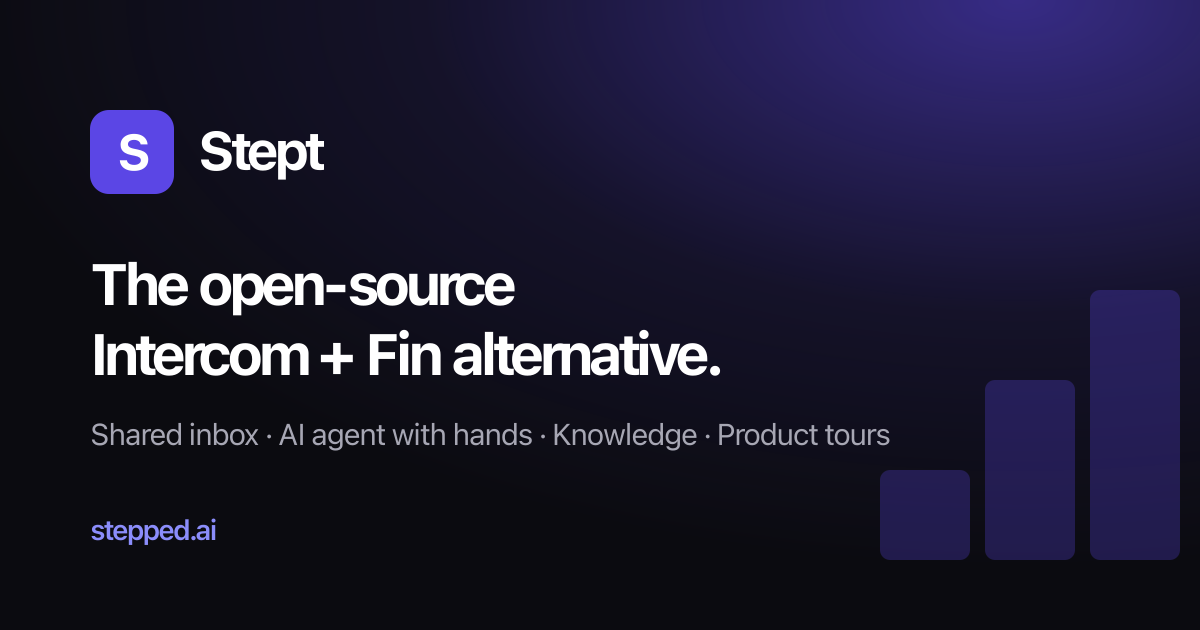
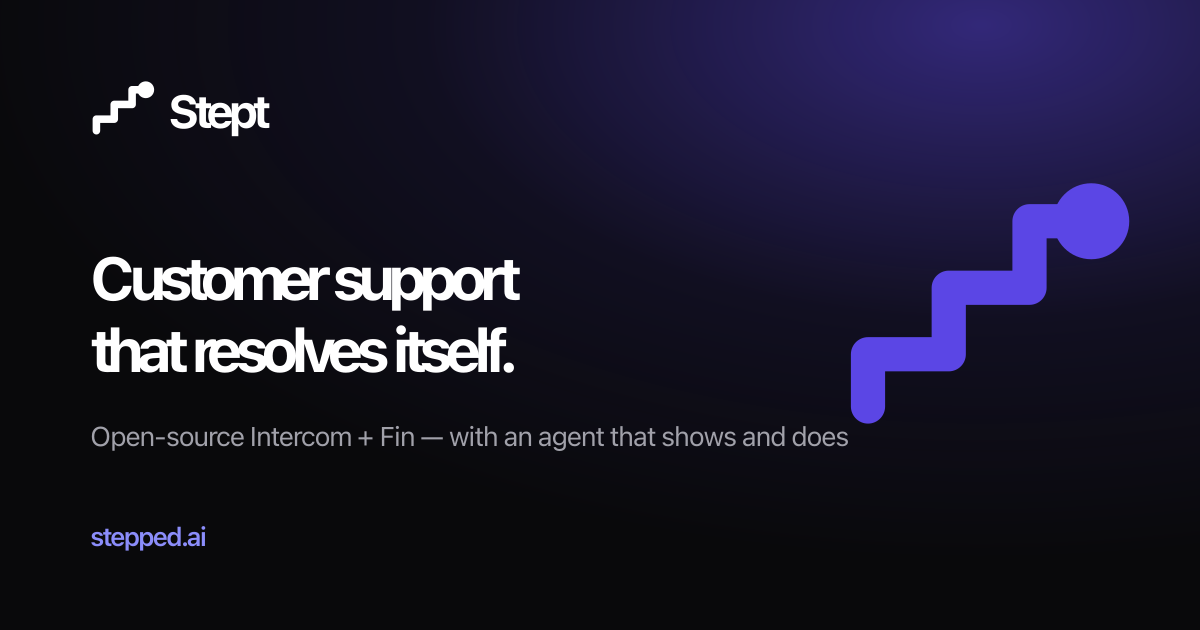
design: one system across docs, widget and the app's tokens
The landing set the direction; everything else was still on the old palette.

Docs: Starlight retinted to the same zinc + indigo, Instrument Sans and
JetBrains Mono, the real mark in the header, and a header that links back to
the site and the app with the same solid CTA.

Widget: zinc neutrals and the brand indigo (also the new default accent for
fresh widget inboxes, and in the checklist/survey/tour players). The system
font stack stays — this bundle loads on customer pages and a webfont would
cost more than the whole widget.

App tokens: --primary is now near-black so primary actions match the
landing's CTA, with the indigo moved to a --brand token for the mark, links,
AI moments and data-viz. Instrument Sans + JetBrains Mono applied globally.
The component sweep onto these tokens lands next.

Brand rasters (OG card, favicons, touch icon) regenerated from the mark
instead of the old letter tile.

Claude-Session: https://claude.ai/code/session_01MDeqYty2o8QCRkEacCTPBL

diff --git a/widget/src/tour-player.ts b/widget/src/tour-player.ts
@@ -328,7 +328,7 @@ const CSS = `
 .stept-tour-root.stept-veil{pointer-events:auto;background:rgba(15,23,42,.55)}
 .stept-tour-hole{position:fixed;z-index:2147483000;border-radius:8px;
   box-shadow:0 0 0 9999px rgba(15,23,42,.55);transition:all .18s ease;pointer-events:none;
-  outline:2px solid var(--stept-accent,#6366f1);outline-offset:2px}
+  outline:2px solid var(--stept-accent,#5b46e5);outline-offset:2px}
 .stept-tour-hole.stept-nodim{box-shadow:none}
 .stept-tour-hole[hidden]{display:none}
 .stept-tour-tip{position:fixed;z-index:2147483001;max-width:340px;width:calc(100vw - 32px);
@@ -336,7 +336,7 @@ const CSS = `
   padding:16px 16px 12px;font:14px/1.5 -apple-system,BlinkMacSystemFont,"Segoe UI",Roboto,Helvetica,Arial,sans-serif;
   box-sizing:border-box}
 .stept-tour-tip[hidden]{display:none}
-.stept-tour-tip:focus{outline:2px solid var(--stept-accent,#6366f1);outline-offset:2px}
+.stept-tour-tip:focus{outline:2px solid var(--stept-accent,#5b46e5);outline-offset:2px}
 .stept-tour-tip.stept-centered{top:50%;left:50%;transform:translate(-50%,-50%);max-width:420px}
 .stept-tour-tip h4{margin:0 0 6px;font-size:15px;font-weight:600}
 .stept-tour-tip p{margin:0 0 8px;color:#334155}
@@ -355,18 +355,18 @@ const CSS = `
 .stept-tour-hint{font-size:12px;color:#64748b;margin:0}
 .stept-tour-actions{display:flex;gap:8px}
 .stept-tour-bar{height:3px;border-radius:2px;background:rgba(100,116,139,.22);margin:0 0 10px;overflow:hidden}
-.stept-tour-bar i{display:block;height:100%;background:var(--stept-accent,#6366f1);transition:width .2s ease}
+.stept-tour-bar i{display:block;height:100%;background:var(--stept-accent,#5b46e5);transition:width .2s ease}
 .stept-tour-btn{border:0;border-radius:8px;padding:7px 14px;font-size:13px;font-weight:600;cursor:pointer;
   font-family:inherit}
-.stept-tour-btn.primary{background:var(--stept-accent,#6366f1);color:#fff}
+.stept-tour-btn.primary{background:var(--stept-accent,#5b46e5);color:#fff}
 .stept-tour-btn.ghost{background:transparent;color:#475569}
 .stept-tour-close{position:absolute;top:8px;right:8px;border:0;background:transparent;
   font-size:16px;line-height:1;cursor:pointer;color:#94a3b8;padding:4px}
 .stept-tour-badge{display:inline-block;margin:0 0 6px;padding:1px 7px;border-radius:99px;font-size:10px;
-  font-weight:700;letter-spacing:.04em;text-transform:uppercase;background:var(--stept-accent,#6366f1);color:#fff}
+  font-weight:700;letter-spacing:.04em;text-transform:uppercase;background:var(--stept-accent,#5b46e5);color:#fff}
 .stept-tour-banner{position:fixed;left:0;right:0;z-index:2147483001;pointer-events:auto;
   display:flex;align-items:center;gap:12px;padding:12px 16px;box-sizing:border-box;
-  background:var(--stept-banner-bg,var(--stept-accent,#6366f1));color:var(--stept-banner-fg,#fff);
+  background:var(--stept-banner-bg,var(--stept-accent,#5b46e5));color:var(--stept-banner-fg,#fff);
   font:14px/1.4 -apple-system,BlinkMacSystemFont,"Segoe UI",Roboto,Helvetica,Arial,sans-serif;
   box-shadow:0 6px 24px rgba(15,23,42,.22)}
 .stept-tour-banner[hidden]{display:none}
@@ -396,7 +396,7 @@ const CSS = `
   border:1px solid currentColor;opacity:.85}
 .stept-tour-banner .stept-tour-close{position:static;color:inherit;opacity:.85}
 .stept-tour-beacon{position:fixed;z-index:2147483001;width:18px;height:18px;border-radius:50%;
-  background:var(--stept-accent,#6366f1);border:0;padding:0;cursor:pointer;pointer-events:auto;
+  background:var(--stept-accent,#5b46e5);border:0;padding:0;cursor:pointer;pointer-events:auto;
   box-shadow:0 0 0 4px rgba(99,102,241,.35);animation:stept-tour-pulse 1.8s ease-out infinite}
 .stept-tour-beacon[hidden]{display:none}
 @keyframes stept-tour-pulse{
@@ -404,7 +404,7 @@ const CSS = `
   70%{box-shadow:0 0 0 14px rgba(99,102,241,0)}
   100%{box-shadow:0 0 0 0 rgba(99,102,241,0)}
 }
-.stept-tour-acting{outline:3px solid var(--stept-accent,#6366f1) !important;outline-offset:2px;
+.stept-tour-acting{outline:3px solid var(--stept-accent,#5b46e5) !important;outline-offset:2px;
   animation:stept-tour-pulse .6s ease-out 1}
 @media (prefers-color-scheme:dark){
   .stept-tour-tip{background:#1e293b;color:#f1f5f9}
@@ -453,7 +453,7 @@ export class TourPlayer {
   constructor(opts: TourPlayerOptions = {}) {
     this.doc = opts.doc ?? document
     this.win = opts.win ?? (this.doc.defaultView as Window & typeof globalThis) ?? window
-    this.accent = opts.accent ?? '#6366f1'
+    this.accent = opts.accent ?? '#5b46e5'
     this.onEvent = opts.onEvent ?? (() => {})
     this.progressKey = opts.progressKey ?? 'stept:tour-progress'
     this.apiBase = opts.apiBase ?? ''

diff --git a/widget/src/survey-widget.ts b/widget/src/survey-widget.ts
@@ -80,33 +80,33 @@ const CSS = `
 .stept-sv-card[hidden]{display:none}
 .stept-sv-card.stept-sv-slideout{right:20px;bottom:92px}
 .stept-sv-card.stept-sv-modal{top:50%;left:50%;transform:translate(-50%,-50%);width:400px}
-.stept-sv-card:focus{outline:2px solid var(--stept-accent,#6366f1);outline-offset:2px}
+.stept-sv-card:focus{outline:2px solid var(--stept-accent,#5b46e5);outline-offset:2px}
 .stept-sv-close{position:absolute;top:8px;right:8px;border:0;background:transparent;color:#94a3b8;
   font-size:16px;line-height:1;cursor:pointer;padding:4px}
 .stept-sv-q{margin:0 0 12px;font-size:15px;font-weight:600;padding-right:16px}
 .stept-sv-nps{display:flex;flex-wrap:wrap;gap:4px;margin:0 0 8px}
 .stept-sv-nps button{flex:1 0 auto;min-width:26px;border:1px solid rgba(100,116,139,.35);background:transparent;
   border-radius:6px;padding:6px 0;font:600 12px/1 inherit;color:inherit;cursor:pointer}
-.stept-sv-nps button[aria-pressed="true"]{background:var(--stept-accent,#6366f1);color:#fff;
-  border-color:var(--stept-accent,#6366f1)}
+.stept-sv-nps button[aria-pressed="true"]{background:var(--stept-accent,#5b46e5);color:#fff;
+  border-color:var(--stept-accent,#5b46e5)}
 .stept-sv-scale{display:flex;justify-content:space-between;font-size:11px;color:#64748b;margin:0 0 12px}
 .stept-sv-stars{display:flex;gap:6px;margin:0 0 12px}
 .stept-sv-stars button{border:0;background:transparent;font-size:26px;line-height:1;cursor:pointer;padding:0;
   color:rgba(100,116,139,.45)}
-.stept-sv-stars button[aria-pressed="true"]{color:var(--stept-accent,#6366f1)}
+.stept-sv-stars button[aria-pressed="true"]{color:var(--stept-accent,#5b46e5)}
 .stept-sv-options{display:flex;flex-direction:column;gap:6px;margin:0 0 12px}
 .stept-sv-options button{border:1px solid rgba(100,116,139,.35);background:transparent;border-radius:8px;
   padding:8px 10px;text-align:left;font:inherit;color:inherit;cursor:pointer}
-.stept-sv-options button[aria-pressed="true"]{border-color:var(--stept-accent,#6366f1);
+.stept-sv-options button[aria-pressed="true"]{border-color:var(--stept-accent,#5b46e5);
   background:rgba(99,102,241,.12)}
 .stept-sv-text{width:100%;box-sizing:border-box;min-height:72px;border-radius:8px;padding:8px;font:inherit;
   border:1px solid rgba(100,116,139,.35);background:transparent;color:inherit;margin:0 0 12px;resize:vertical}
 .stept-sv-foot{display:flex;align-items:center;justify-content:space-between;gap:8px}
 .stept-sv-dots{display:flex;gap:5px}
 .stept-sv-dots i{width:6px;height:6px;border-radius:50%;background:rgba(100,116,139,.35)}
-.stept-sv-dots i.on{background:var(--stept-accent,#6366f1)}
+.stept-sv-dots i.on{background:var(--stept-accent,#5b46e5)}
 .stept-sv-btn{border:0;border-radius:8px;padding:7px 14px;font:600 13px/1.2 inherit;cursor:pointer;
-  background:var(--stept-accent,#6366f1);color:#fff}
+  background:var(--stept-accent,#5b46e5);color:#fff}
 .stept-sv-btn[disabled]{opacity:.5;cursor:default}
 .stept-sv-btn.ghost{background:transparent;color:#64748b}
 .stept-sv-thanks p{margin:0}
@@ -237,7 +237,7 @@ export class SurveyWidget {
 
   private build(survey: Survey): void {
     const modal = survey.presentation === 'modal'
-    const accent = survey.theme?.accent || '#6366f1'
+    const accent = survey.theme?.accent || '#5b46e5'
     if (modal) {
       const veil = node(this.doc, 'div', 'stept-sv-veil')
       veil.onclick = () => this.dismiss()

diff --git a/widget/src/checklist-widget.ts b/widget/src/checklist-widget.ts
@@ -143,7 +143,7 @@ const STYLE_ID = 'stept-checklist-style'
 const CSS = `
 .stept-cl-pill{position:fixed;bottom:20px;z-index:2147482890;display:flex;align-items:center;gap:8px;
   border:0;border-radius:99px;padding:10px 16px;cursor:pointer;
-  background:var(--stept-accent,#6366f1);color:#fff;font:600 13px/1.2 -apple-system,BlinkMacSystemFont,
+  background:var(--stept-accent,#5b46e5);color:#fff;font:600 13px/1.2 -apple-system,BlinkMacSystemFont,
   "Segoe UI",Roboto,Helvetica,Arial,sans-serif;box-shadow:0 6px 20px rgba(15,23,42,.28)}
 .stept-cl-pill:hover{transform:translateY(-1px)}
 .stept-cl-pill[hidden],.stept-cl-panel[hidden]{display:none}
@@ -160,18 +160,18 @@ const CSS = `
 .stept-cl-close{border:0;background:transparent;color:#94a3b8;font-size:16px;line-height:1;cursor:pointer;padding:2px 4px}
 .stept-cl-progress{display:flex;align-items:center;gap:8px;margin:0 0 12px;font-size:12px;color:#64748b}
 .stept-cl-bar{flex:1;height:6px;border-radius:3px;background:rgba(100,116,139,.2);overflow:hidden}
-.stept-cl-bar i{display:block;height:100%;background:var(--stept-accent,#6366f1);transition:width .2s ease}
+.stept-cl-bar i{display:block;height:100%;background:var(--stept-accent,#5b46e5);transition:width .2s ease}
 .stept-cl-items{list-style:none;margin:0;padding:0;display:flex;flex-direction:column;gap:2px}
 .stept-cl-item{border-radius:10px;padding:8px}
 .stept-cl-item:hover{background:rgba(100,116,139,.08)}
 .stept-cl-row{display:flex;align-items:center;gap:10px}
 .stept-cl-check{flex:0 0 auto;width:20px;height:20px;border-radius:50%;border:2px solid rgba(100,116,139,.45);
   background:transparent;cursor:pointer;padding:0;color:#fff;font-size:12px;line-height:16px}
-.stept-cl-item.done .stept-cl-check{background:var(--stept-accent,#6366f1);border-color:var(--stept-accent,#6366f1)}
+.stept-cl-item.done .stept-cl-check{background:var(--stept-accent,#5b46e5);border-color:var(--stept-accent,#5b46e5)}
 .stept-cl-title{flex:1;text-align:left;border:0;background:transparent;cursor:pointer;padding:0;font:inherit;color:inherit}
 .stept-cl-item.done .stept-cl-title{color:#94a3b8;text-decoration:line-through}
 .stept-cl-cta{border:0;border-radius:8px;padding:5px 12px;font:600 12px/1.2 inherit;cursor:pointer;
-  background:var(--stept-accent,#6366f1);color:#fff}
+  background:var(--stept-accent,#5b46e5);color:#fff}
 .stept-cl-body{margin:6px 0 0 30px;font-size:13px;color:#475569}
 .stept-cl-body[hidden]{display:none}
 .stept-cl-body p{margin:0 0 6px}
@@ -334,7 +334,7 @@ export class ChecklistWidget {
   private build(): void {
     if (this.pill && this.panel) return
     const side = this.checklist?.theme?.position === 'bottom-left' ? 'left' : 'right'
-    const accent = this.checklist?.theme?.accent || '#6366f1'
+    const accent = this.checklist?.theme?.accent || '#5b46e5'
 
     const pill = node(this.doc, 'button', `stept-cl-pill stept-cl-${side}`)
     pill.style.setProperty('--stept-accent', accent)

diff --git a/docs-site/src/styles/stept.css b/docs-site/src/styles/stept.css
@@ -1,0 +1,95 @@
+/*
+ * Stept docs theme — the same system as the marketing site
+ * (landing/src/styles/global.css) and the app (frontend/src/index.css):
+ * neutral-first chrome, indigo reserved for the mark, links and accents.
+ *
+ * Starlight exposes its palette as --sl-color-* custom properties, so this
+ * overrides those rather than fighting its stylesheet.
+ */
+
+@import '@fontsource-variable/instrument-sans';
+@import '@fontsource-variable/jetbrains-mono';
+
+:root {
+  /* accent (indigo) — links, active nav, the mark */
+  --sl-color-accent-low: #221b56;
+  --sl-color-accent: #5b46e5;
+  --sl-color-accent-high: #c3bcf7;
+
+  /* neutrals: zinc, matching the landing exactly */
+  --sl-color-white: #ffffff;
+  --sl-color-gray-1: #e4e4e7;
+  --sl-color-gray-2: #a1a1aa;
+  --sl-color-gray-3: #71717a;
+  --sl-color-gray-4: #3f3f46;
+  --sl-color-gray-5: #27272a;
+  --sl-color-gray-6: #18181b;
+  --sl-color-black: #09090b;
+
+  --sl-font: 'Instrument Sans Variable', ui-sans-serif, system-ui, -apple-system, sans-serif;
+  --sl-font-mono: 'JetBrains Mono Variable', ui-monospace, SFMono-Regular, Menlo, monospace;
+
+  --sl-nav-height: 3.75rem;
+}
+
+:root[data-theme='light'] {
+  --sl-color-accent-low: #dedaf9;
+  --sl-color-accent: #5b46e5;
+  --sl-color-accent-high: #2c2185;
+
+  --sl-color-white: #09090b;
+  --sl-color-gray-1: #27272a;
+  --sl-color-gray-2: #3f3f46;
+  --sl-color-gray-3: #71717a;
+  --sl-color-gray-4: #a1a1aa;
+  --sl-color-gray-5: #e4e4e7;
+  --sl-color-gray-6: #f4f4f5;
+  --sl-color-gray-7: #fafafa;
+  --sl-color-black: #ffffff;
+}
+
+/* Tighter, more deliberate display type — the landing's voice. */
+.sl-markdown-content h1,
+.sl-markdown-content h2,
+.sl-markdown-content h3,
+.site-title {
+  letter-spacing: -0.03em;
+  font-weight: 700;
+}
+
+.site-title {
+  font-size: 1.1875rem;
+}
+
+/* The header is chrome: keep it quiet and let content carry the colour. */
+.header {
+  border-bottom: 1px solid var(--sl-color-gray-5);
+  backdrop-filter: saturate(1.6) blur(12px);
+}
+
+/* Hero CTA buttons: solid near-black primary, outlined secondary — same
+   hierarchy the landing uses. */
+.hero .actions .action.primary {
+  background: var(--sl-color-white);
+  color: var(--sl-color-black);
+  border: 1px solid var(--sl-color-white);
+}
+
+.hero .actions .action.minimal {
+  border: 1px solid var(--sl-color-gray-5);
+  color: var(--sl-color-white);
+}
+
+.hero h1 {
+  letter-spacing: -0.035em;
+}
+
+/* Cards read as surfaces, not tinted boxes. */
+.card {
+  border-radius: 0.875rem;
+  border-color: var(--sl-color-gray-5);
+}
+
+.card .icon {
+  color: var(--sl-color-accent);
+}

diff --git a/frontend/src/index.css b/frontend/src/index.css
@@ -1,8 +1,18 @@
 @import 'tailwindcss';
 @import 'tw-animate-css';
+@import '@fontsource-variable/instrument-sans';
+@import '@fontsource-variable/jetbrains-mono';
 
 @custom-variant dark (&:is(.dark *));
 
+/*
+ * Design tokens — kept in lockstep with the marketing site
+ * (landing/src/styles/global.css). The system is neutral-first: `--primary` is
+ * near-black so primary actions read as solid and serious, and the indigo lives
+ * in `--brand`, reserved for the mark, AI moments, links and focus rings. Change
+ * one side and you must change the other, or the product and the site drift
+ * apart again.
+ */
 :root {
   --background: oklch(1 0 0);
   --foreground: oklch(0.145 0 0);
@@ -10,8 +20,13 @@
   --card-foreground: oklch(0.145 0 0);
   --popover: oklch(1 0 0);
   --popover-foreground: oklch(0.145 0 0);
-  --primary: oklch(0.488 0.217 275.6);
+  /* Primary action = near-black, matching the landing's solid CTA. */
+  --primary: oklch(0.145 0 0);
   --primary-foreground: oklch(0.985 0 0);
+  /* Brand/AI accent — the indigo the mark is drawn in. */
+  --brand: oklch(0.488 0.217 275.6);
+  --brand-foreground: oklch(0.985 0 0);
+  --brand-soft: oklch(0.488 0.217 275.6 / 0.08);
   --secondary: oklch(0.97 0 0);
   --secondary-foreground: oklch(0.205 0 0);
   --muted: oklch(0.97 0 0);
@@ -46,8 +61,11 @@
   --card-foreground: oklch(0.985 0 0);
   --popover: oklch(0.185 0 0);
   --popover-foreground: oklch(0.985 0 0);
-  --primary: oklch(0.673 0.182 276.7);
+  --primary: oklch(0.985 0 0);
   --primary-foreground: oklch(0.145 0 0);
+  --brand: oklch(0.673 0.182 276.7);
+  --brand-foreground: oklch(0.145 0 0);
+  --brand-soft: oklch(0.673 0.182 276.7 / 0.14);
   --secondary: oklch(0.269 0 0);
   --secondary-foreground: oklch(0.985 0 0);
   --muted: oklch(0.269 0 0);
@@ -83,6 +101,9 @@
   --color-popover-foreground: var(--popover-foreground);
   --color-primary: var(--primary);
   --color-primary-foreground: var(--primary-foreground);
+  --color-brand: var(--brand);
+  --color-brand-foreground: var(--brand-foreground);
+  --color-brand-soft: var(--brand-soft);
   --color-secondary: var(--secondary);
   --color-secondary-foreground: var(--secondary-foreground);
   --color-muted: var(--muted);
@@ -119,6 +140,17 @@
   }
   body {
     @apply bg-background text-foreground antialiased;
+    font-family: 'Instrument Sans Variable', ui-sans-serif, system-ui, -apple-system, sans-serif;
+  }
+  code,
+  pre,
+  kbd {
+    font-family: 'JetBrains Mono Variable', ui-monospace, SFMono-Regular, Menlo, monospace;
+  }
+  h1,
+  h2,
+  h3 {
+    letter-spacing: -0.02em;
   }
   html,
   body,

diff --git a/widget/src/app/styles.css b/widget/src/app/styles.css
@@ -1,13 +1,17 @@
-/* Stept messenger — self-contained styles (no external fonts / CDN). */
+/* Stept messenger — self-contained styles (no external fonts / CDN).
+ *
+ * Palette matches the marketing site and the app (zinc neutrals, the same
+ * indigo). The type stack stays system-native on purpose: this bundle loads on
+ * customer pages, and a webfont would cost more than the whole widget. */
 
 :root {
-  --sw-accent: #6366f1;
+  --sw-accent: #5b46e5;
   --sw-bg: #ffffff;
-  --sw-panel: #f8fafc;
-  --sw-text: #0f172a;
-  --sw-muted: #64748b;
-  --sw-border: #e2e8f0;
-  --sw-bubble-them: #f1f5f9;
+  --sw-panel: #fafafa;
+  --sw-text: #09090b;
+  --sw-muted: #71717a;
+  --sw-border: #e4e4e7;
+  --sw-bubble-them: #f4f4f5;
   --sw-radius: 16px;
   --sw-font: -apple-system, BlinkMacSystemFont, 'Segoe UI', Roboto, Helvetica, Arial, sans-serif;
 }
@@ -129,6 +133,7 @@ body {
   margin: 0 0 4px;
   font-size: 24px;
   font-weight: 700;
+  letter-spacing: -0.03em;
 }
 .sw-hero-sub {
   margin: 0;

diff --git a/widget/src/loader.ts b/widget/src/loader.ts
@@ -86,7 +86,7 @@ const STYLE_ID = 'stept-loader-style'
 const CSS = `
 #${LAUNCHER_ID}{position:fixed;bottom:20px;z-index:2147482900;width:60px;height:60px;
   border-radius:50%;border:0;cursor:pointer;box-shadow:0 6px 20px rgba(15,23,42,.28);
-  background:var(--stept-accent,#6366f1);color:#fff;display:flex;align-items:center;
+  background:var(--stept-accent,#5b46e5);color:#fff;display:flex;align-items:center;
   justify-content:center;transition:transform .15s ease,opacity .15s ease}
 #${LAUNCHER_ID}:hover{transform:scale(1.05)}
 #${LAUNCHER_ID}.stept-right{right:20px}
@@ -119,7 +119,7 @@ class WidgetHost {
   private apiBase: string
   private widgetKey: string
   private position: 'left' | 'right' = 'right'
-  private accent = '#6366f1'
+  private accent = '#5b46e5'
 
   private launcher: HTMLButtonElement | null = null
   private badge: HTMLSpanElement | null = null

diff --git a/widget/src/app/App.tsx b/widget/src/app/App.tsx
@@ -17,7 +17,7 @@ export function App({ controller }: { controller: Controller }) {
     void controller.boot()
   }, [controller])
 
-  const accent = state.config.accent_color || '#6366f1'
+  const accent = state.config.accent_color || '#5b46e5'
   const workspaceName = state.workspace?.name || 'Chat'
   const close = () => controller.requestClose()
 

diff --git a/backend/app/services/inboxes.py b/backend/app/services/inboxes.py
@@ -36,7 +36,7 @@ from app.models.inbox import ChannelType, Inbox
 from app.services import audit
 
 DEFAULT_WIDGET_CONFIG: dict[str, Any] = {
-    "accent_color": "#6366f1",
+    "accent_color": "#5b46e5",
     "greeting": "Hi! How can we help?",
     # Off by default so inbound conversations land in Unassigned for the team to
     # triage. With it on, a single-member workspace silently pre-claims every
